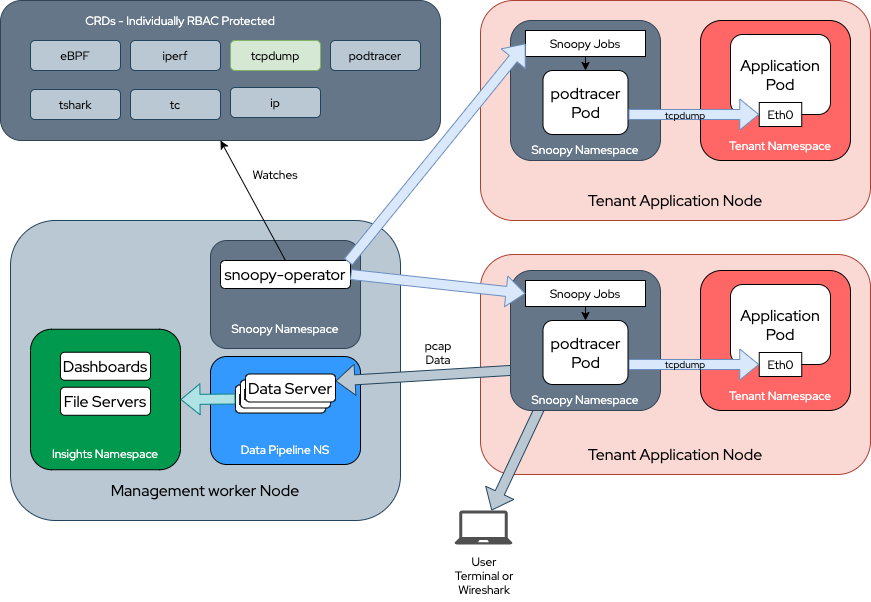
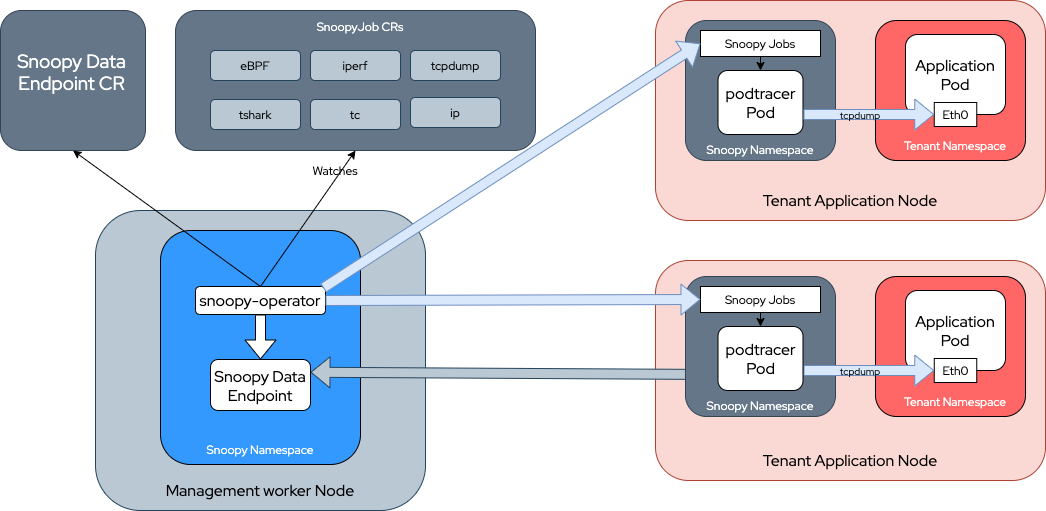
ADD install instructions

diff --git a/README.md b/README.md
@@ -18,16 +18,187 @@ In order to achieve it's results it makes use of [podtracer](https://github.com/
 
 ### Road Map
 
-At this moment snoopy-operator can run the jobs with podtracer and use tcpdump as jobs logging out packets. Both pieces of software must evolve to include other troubleshooting, monitoring and deep inspection tools. Among many desired features we highlight a few that are part of our community discussions below:
+At this moment snoopy-operator can run podtracer through its jobs and use networkign tools to accomplish desired tasks targeting labeled Pods. For the moment only network related tools have been successfuly tested. Among many desired features we highlight a few that are part of our community discussions below:
 
 - Send the retrieved data to a central server (Kafka for ex.) to be consumed by specialized processes as part of a data processing pipeline.
-- Including tools like iperf to run specialized performance tests at scale.
+- Including tools that can go beyond networking when needed.
 - Including eBPF filters for security monitoring.
 - The creation of a data pipeline and dashboard to analyze and publish results.
 
 ### Install Instructions
 
-    New docs coming up soon!
+#### Snoopy operator uses two custom resource definitions: 
+
+#### 1) Snoopy Data Endpoint. 
+
+The data endpoint is a workload that carries a gRPC server to gather all the data captured from target pods. For now all it takes is a service name and a service port.
+
+Here is an example CR for SnoopyDataEndpoint:
+```
+apiVersion: data.fennecproject.io/v1alpha1
+kind: SnoopyDataEndpoint
+metadata:
+  name: snoopydataendpoint-sample
+spec:
+  serviceName: snoopy-data-svc
+  servicePort: 51001
+```
+
+#### 2) Snoopy Jobs
+
+The snoopy jobs are kubernetes jobs or kubernetes cronjobs depending on the desired configuration. If you use the schedule field with the same syntax string as a Linux or kubernetes cronjob it becomes a cronjob. If not it runs once immediately as a simple Job. Those jobs execute Pods running the [podtracer](https://github.com/fennec-project/podtracer) tool.
+
+Here is an explained CR for SnoopyJob:
+
+```
+apiVersion: job.fennecproject.io/v1alpha1
+kind: SnoopyJob
+metadata:
+  name: snoopy-samplejob
+spec:
+  command: "tcpdump"
+  args: "-n -i eth0"
+  labelSelector: { 
+    networkMonitor: "true",
+    }
+  targetNamespace: cnf-telco
+  timer: "2m"
+  dataServiceIP: "172.30.217.41"
+  dataServicePort: "51001"
+```
+
+<b>command</b>: The command, tool or task to be run against your Pod. Examples would be `tcpdump`, `iperf`, `ip` etc.
+
+<b>args</b>: The arguments to those commands. For example with `tcpdump` it would be everything that comes after the command itself like `-ni eth0 -w myfile.pcap` etc.
+
+<b>labeSelector</b>: The label selector is what allows the snoopy operator to find the target pods. So pods labeled with that label will be the ones listed as targets for the tool being used.
+
+<b>targetNamespace</b>: Snoopy Operator targets one Kubernetes Namespace per SnoopyJob CR instance. So it will look for the pods with the label informed on that particular namespace.
+
+<b>schedule</b>: The filed schedule will transfor the snoopy job in Kubernetes cronjob and allow the task or tool to be run on a repeated scheldule. It works exactly as in the good old Linux cronjob syntax. Please see https://en.wikipedia.org/wiki/Cron.
+
+<b>timer</b>: The timer field accepts formats like 10s for seconds, 2m for minutes, 1h for hours and 5d for days or combination of those. From golang [time](https://pkg.go.dev/time#ParseDuration) package : 
+
+  <I>A duration string is a possibly signed sequence of decimal numbers, each with optional fraction and a unit suffix, such as "300ms", "-1.5h" or "2h45m". Valid time units are "ns", "us" (or "µs"), "ms", "s", "m", "h"."</I>
+
+
+<b>dataServiceIP</b>: The data service IP is the ip address of the SnoopyDataEndpoint service created previously. That is a gRPC service collecting the data captured by the SnoopyJobs.
+
+<b>dataServicePort</b>: The data service port is what the name implies. The port used for the SnoopyDataEndpoint service where it listens to new connections.
+
+### Step by Step example:
+
+First let's clone the project and enter the projects directory:
+```
+git clone https://github.com/fennec-project/snoopy-operator.git
+cd snoopy-operator 
+```
+#### Step 0: If you don't have target Pods
+
+You can use the sample deployment that can be found at config/samples/sample-deployment.yaml. It will create a namespace called cnf-telco, a service account and a sample deployment with 2 Pods. They are already labeled with the labels used with the other CR examples in order to be found by Snoopy Operator. They are not running any particular command only sleep indefinitely for you to login into them and run any commands available and permit to be run. You might simply ping to generate some traffic or run iperf by hand from them or replace the command and args on the Deployment definition for any entry point you would like to. The image for those containers is the one found [here](https://github.com/nicolaka/netshoot) Just remember that the sample deployment doesn't have special privileges and can't do root tasks. That would require some RBAC configuration.
+
+After crafting the sample deployment with possible desired changes, if that's the case, run:
+```
+kubectl apply -f config/samples/sample-deployment.yaml
+```
+You should see pods running in the cnf-telco namespace.
+
+#### Step 1: Deploying the Operator Itself
+
+Then deploy the operator by running:
+```
+make deploy
+```
+This command will deploy all the manifests needed to run the operator. Namespace creation, service accounts and other RBAC resources and the operator deployment itself.
+
+After that you shoud be able to see the operator pod running in the snoopy-operator namespace.
+
+```
+kubectl get pods -n snoopy-operator
+NAME                              READY   STATUS    RESTARTS   AGE
+snoopy-operator-ff7889898-p2rm4   1/1     Running   0          13m
+```
+
+#### Step 2: Creating a SnoopyDataEnpoint to collect data:
+
+You can find a sample CR for snoopyDataEndpoints at config/samples/data_v1alpha1_snoopydataendpoint.yaml. We just need to apply to the cluster:
+
+```
+kubectl apply -f config/samples/data_v1alpha1_snoopydataendpoint.yaml
+```
+
+That should leave us with a new Pod and new Service in the snoopy-operator namespace:
+
+```
+kubectl get pods -n snoopy-operator
+NAME                              READY   STATUS    RESTARTS   AGE
+snoopy-data-5dd97b6b69-wx8fm      1/1     Running   0          4s
+snoopy-operator-ff7889898-p2rm4   1/1     Running   0          16m
+```
+
+And for the Service:
+```
+oc get svc -n snoopy-operator
+NAME              TYPE        CLUSTER-IP       EXTERNAL-IP   PORT(S)     AGE
+snoopy-data-svc   ClusterIP   172.30.228.157   <none>        51001/TCP   71s
+```
+
+#### Step 3: Running the desired Jobs against the target Pods:
+
+Assuming that we already have target Pods running on a specific target Kubernetes Namespace and that those Pods are already labeled with information useful for this task we may proceed from here.
+
+Take the IP address of your service (subject to change soon for using only the service name) and use it on the SnoopyJob CR like below:
+
+```
+apiVersion: job.fennecproject.io/v1alpha1
+kind: SnoopyJob
+metadata:
+  name: snoopy-samplejob
+spec:
+  command: "tcpdump"
+  args: "-n -i eth0"
+  labelSelector: { 
+    networkMonitor: "true",
+    }
+  targetNamespace: cnf-telco
+  timer: "2m"
+  dataServiceIP: "172.30.228.157"
+  dataServicePort: "51001"
+```
+
+You can find the sample and change it at config/samples/job_v1alpha1_snoopyjob.yaml. Then apply the file to Kubernetes:
+```
+kubectl apply -f config/samples/job_v1alpha1_snoopyjob.yaml
+```
+That will spin up your podtracer job Pods that are responsible for finding the target Pods and capture data from them. For now it creates one Pod by target Pod to execute the task. In this example we're using tcpdump with a 2 minutes timer set.
+
+```
+kubectl get pods -n snoopy-operator
+NAME                                                READY   STATUS    RESTARTS   AGE
+snoopy-data-5dd97b6b69-wx8fm                        1/1     Running   0          7m24s
+snoopy-job-cnf-example-pod-6796b4cb8f-4z58j-mvbgd   1/1     Running   0          15s
+snoopy-job-cnf-example-pod-6796b4cb8f-n7dk8-8zm7n   1/1     Running   0          15s
+snoopy-job-cnf-example-pod-6796b4cb8f-p88z4-55dpz   1/1     Running   0          15s
+snoopy-job-cnf-example-pod-6796b4cb8f-tmthn-7rx56   1/1     Running   0          15s
+snoopy-job-cnf-example-pod-6796b4cb8f-w4sgm-jfqdt   1/1     Running   0          15s
+snoopy-operator-ff7889898-p2rm4                     1/1     Running   0          24m
+```
+
+#### Step 4: Retrieving the Data Captured from the Desired Pods
+
+Data will flow out and land on the snoopy-data Pod where the gRPC data collector server is running. In our example we captured data from 5 Pods previously deployed with the sample deployment file found at config/samples/sample-deployment.yaml altered to 5 replicas instead of 2 and running a ping command instead of sleeping. Remark that the sample-deployment.yaml already has a label that can be used by the CRs in the example. If we login into the data pod and run ls we can see the files created with the Pod names. The contents of whatever command is being run can be retrived from those files. Our next step is to enable this gRPC server to become a Kafka producer.
+
+```
+kubectl exec -it snoopy-data-5dd97b6b69-wx8fm -- /bin/bash
+bash-5.1# ls
+bin                               cnf-example-pod-6796b4cb8f-w4sgm  lib64                             root                              sys
+cnf-example-pod-6796b4cb8f-4z58j  dev                               media                             run                               tmp
+cnf-example-pod-6796b4cb8f-n7dk8  etc                               mnt                               sbin                              usr
+cnf-example-pod-6796b4cb8f-p88z4  home                              opt                               server                            var
+cnf-example-pod-6796b4cb8f-tmthn  lib                               proc                              srv
+```
+
+
 
 ### Contribution
 
